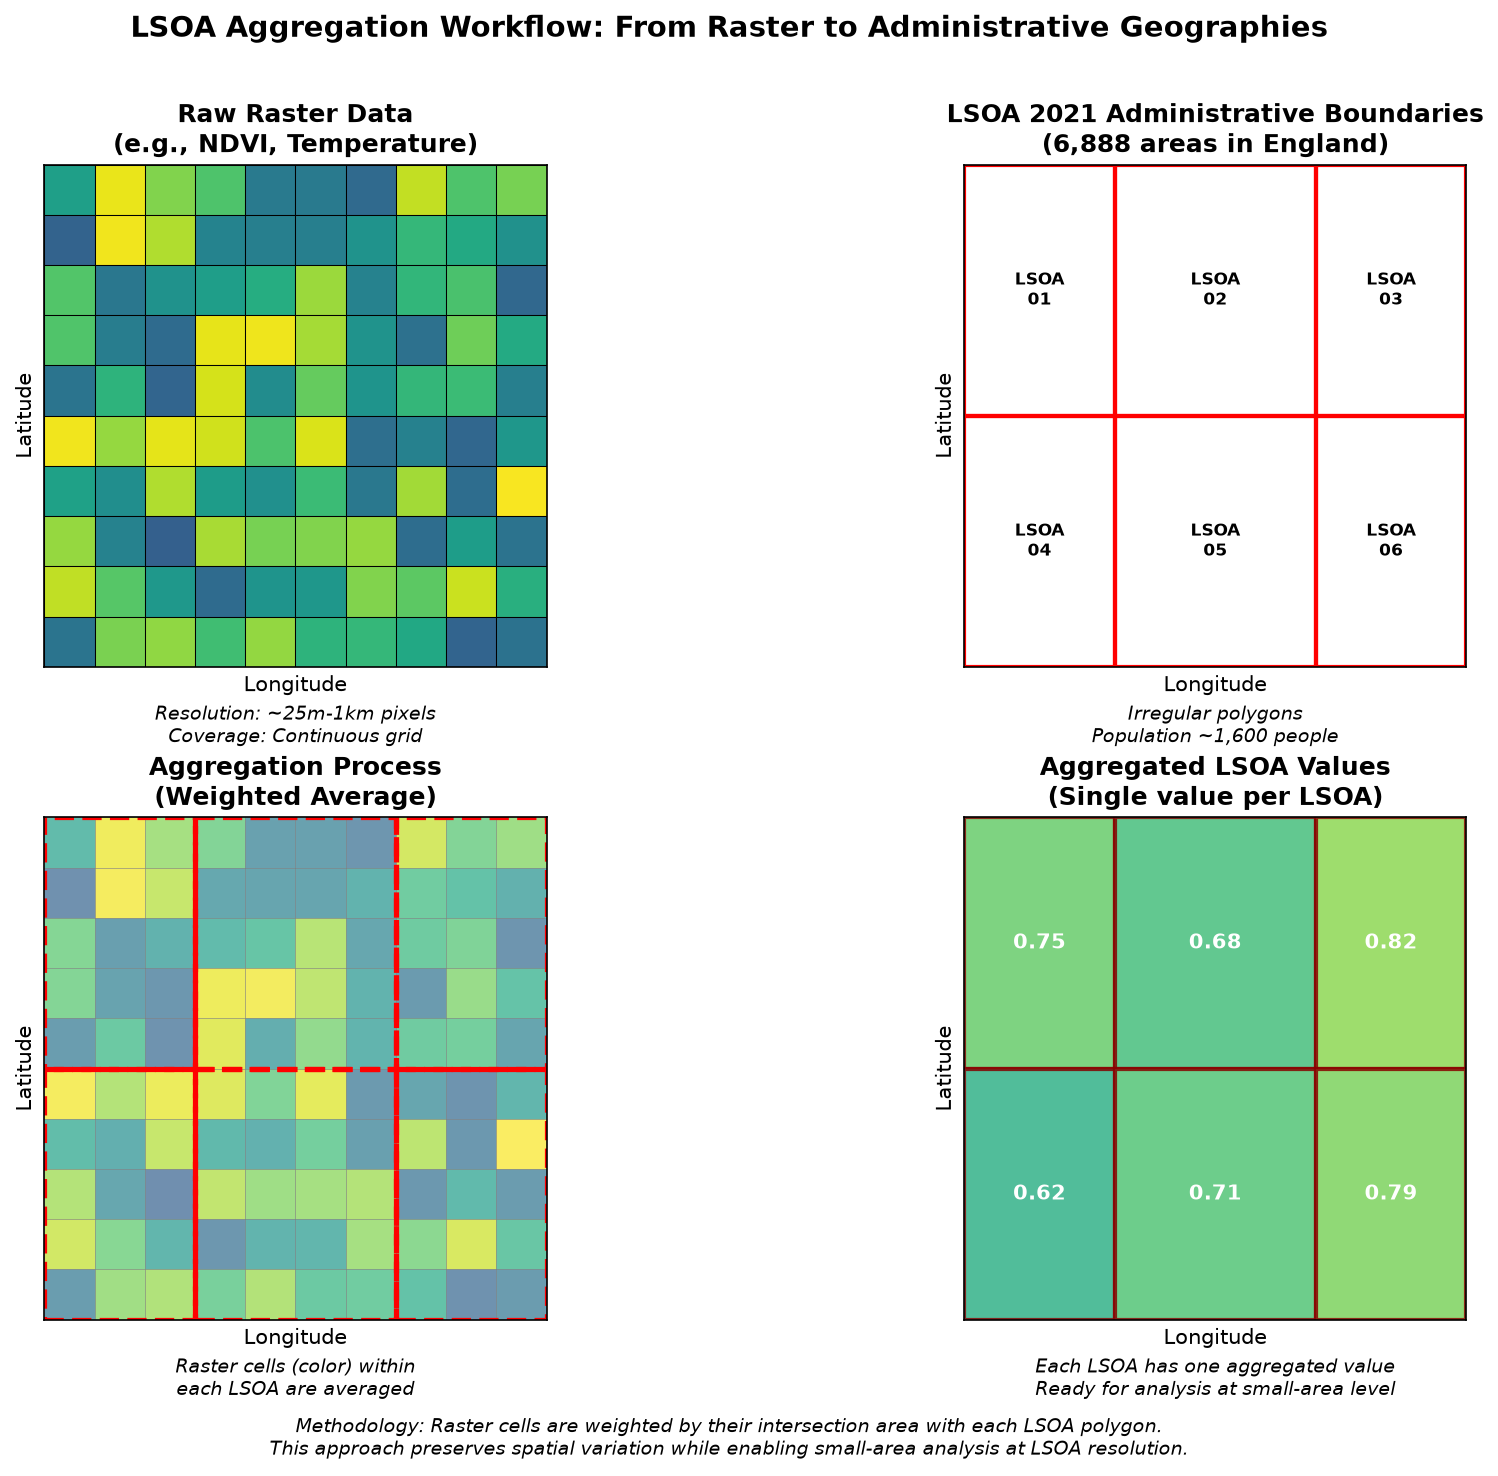
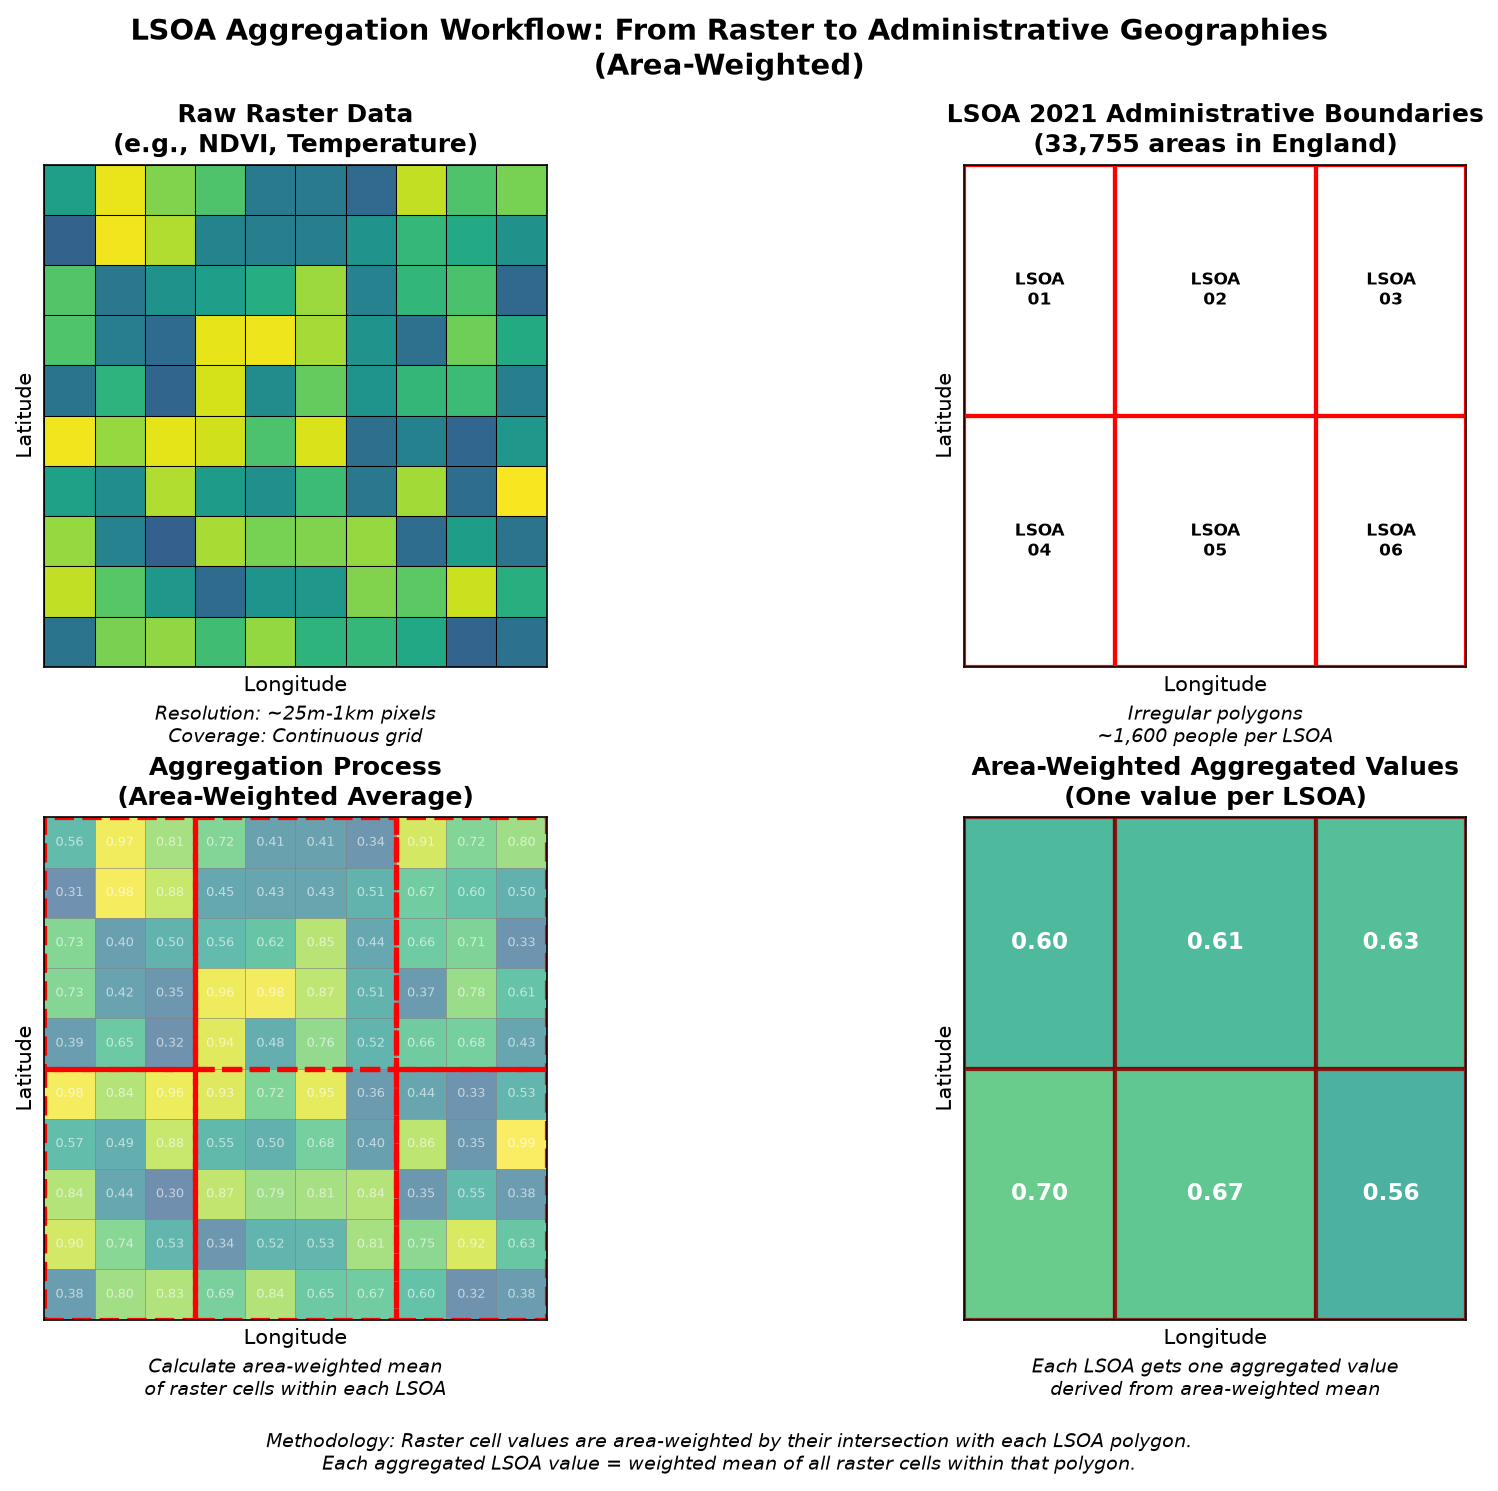
Update LSOA aggregation workflow figure to reflect correct number of administrative boundaries

diff --git a/README.md b/README.md
@@ -19,7 +19,7 @@ The NDVI maps below are retained as example figures showing normalized differenc
 
 <figure style="width: 100%; margin: 20px 0;">
   <img src="figure/lsoa_aggregation_workflow.png" alt="Four-panel diagram explaining the LSOA aggregation process" style="width: 100%; height: auto; display: block; border: 1px solid #ddd;">
-  <figcaption><strong>Figure 2:</strong> LSOA aggregation workflow. (Panel 1) Raw raster data with continuous spatial variation. (Panel 2) LSOA 2021 administrative boundaries (6,888 areas in England). (Panel 3) Overlay showing how raster cells intersect with LSOA polygons. (Panel 4) Final aggregated values, one per LSOA. Raster cells are weighted by their intersection area with each LSOA polygon.</figcaption>
+  <figcaption><strong>Figure 2:</strong> LSOA aggregation workflow. (Panel 1) Raw raster data with continuous spatial variation. (Panel 2) LSOA 2021 administrative boundaries (33,755 areas in England). (Panel 3) Overlay showing how raster cells intersect with LSOA polygons. (Panel 4) Final aggregated values, one per LSOA. Raster cells are weighted by their intersection area with each LSOA polygon.</figcaption>
 </figure>
 
 ## Repository layout
